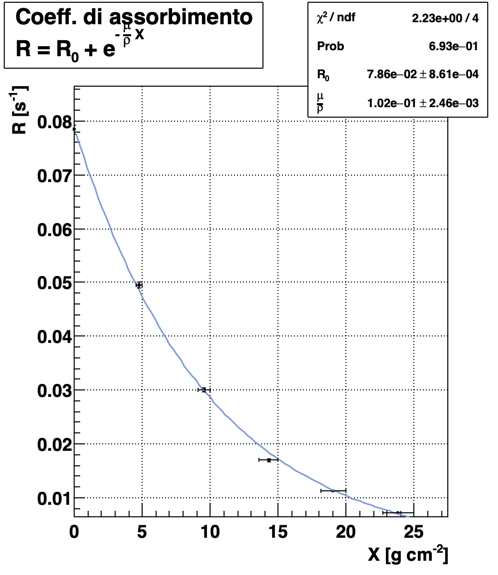
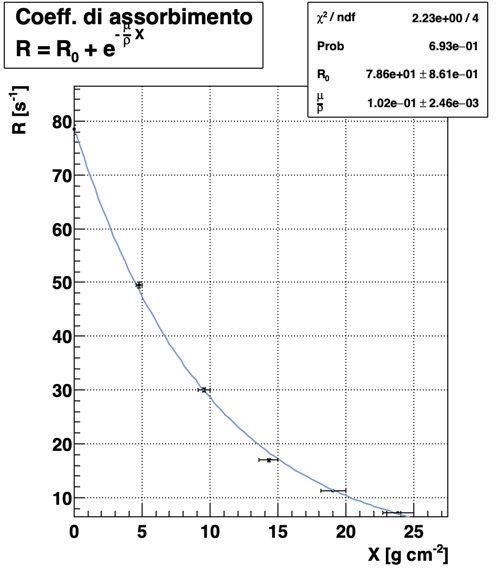
.

diff --git a/analysis/analysis5.cpp b/analysis/analysis5.cpp
@@ -99,7 +99,7 @@ void z_test_branch(const char * file_name)
 
 void analysis5()
 {   
-    //freopen("../output/analysis5.txt", "w", stdout);
+    freopen("../output/analysis5.txt", "w", stdout);
     fstream file("../data/coeff_ass.txt", fstream::in);
 
     vector<int> n_spessori;
@@ -130,10 +130,10 @@ void analysis5()
         entry8 = sqrt(2*gross_area.at(i) - net_area.at(i));
         err_net_area.push_back(entry8);
         
-        entry9 = net_area.at(i) / (live_time.at(i) * 1000); //kBq
+        entry9 = net_area.at(i) / (live_time.at(i)); //s^-1
         R.push_back(entry9);
-        entry10 = sqrt(pow(err_net_area.at(i)/(live_time.at(i)*1000), 2) 
-                    + pow(net_area.at(i)*err_live_time.at(i)/1000, 2)/pow(live_time.at(i), 4));
+        entry10 = sqrt(pow(err_net_area.at(i)/(live_time.at(i)), 2) 
+                    + pow(net_area.at(i)*err_live_time.at(i), 2)/pow(live_time.at(i), 4));
         err_R.push_back(entry10);
 
         entry11 = err_R.at(i) / R.at(i);
@@ -167,7 +167,7 @@ void analysis5()
     gROOT->SetStyle("Plain");
     gStyle->SetOptFit(1111);
     gStyle->SetFitFormat("2.2e");
-    
+
     TCanvas * canvas1 = new TCanvas("canvas1", "R", 500, 500, 500, 600);
     canvas1->SetGrid();
 
